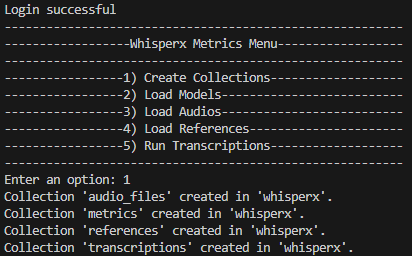
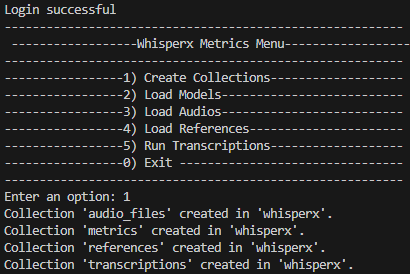
update menu options

Changed region(s): [[0.0, 0.0938, 1.0, 1.0], [0.0, 0.0, 0.2927, 0.0625]]

diff --git a/main.py b/main.py
@@ -56,37 +56,45 @@ def main(database_name):
      print("Error: no audio files loaded in database")
     
 if __name__ == "__main__":
-    print("---------------------------------------------------------\n"
-          "------------------Whisperx Metrics Menu------------------\n"
-          "---------------------------------------------------------\n"
-          "-----------------1) Create Collections-------------------\n"
-          "-----------------2) Load Models--------------------------\n"
-          "-----------------3) Load Audios--------------------------\n"
-          "-----------------4) Load References----------------------\n"
-          "-----------------5) Run Transcriptions-------------------\n"
-          "---------------------------------------------------------")
-    option =input("Enter an option: ")
-    if option in '12345':
-       option=int(option)
-       if option >=1 and option <=5:
-          if option == 1:
-            create_collections(database_name)
-          elif option == 2:
-            print("Downloading model from huggingface")
-            load_whisper_model(hf_token, model_name, whisper_model_dir)
-            print("Transforming whisper model into whisper faster format")
-            load_whisper_faster_model(whisper_model_dir, whisper_faster_model_dir)
-          elif option == 3:
-            print("Loading audio files batch from local directory")
-            load_mp3_batch(audio_dir)
-          elif option == 4: 
-            audio_id = input("Set the audio_id for the reference file: ")
-            load_reference_batch(audio_id, reference_dir)           
-          elif option == 5:
-            print("Checking ffmpeg")
-            check_ffmpeg()
-            print("Running transcriptions")
-            main(database_name)
-    else:
-      ("Error: insert a value between 1 and 5")
-    
+    while True:
+
+      print("---------------------------------------------------------\n",
+            "------------------Whisperx Metrics Menu------------------\n"
+            "---------------------------------------------------------\n"
+            "-----------------1) Create Collections-------------------\n"
+            "-----------------2) Load Models--------------------------\n"
+            "-----------------3) Load Audios--------------------------\n"
+            "-----------------4) Load References----------------------\n"
+            "-----------------5) Run Transcriptions-------------------\n"
+            "-----------------0) Exit---------------------------------\n"
+            "---------------------------------------------------------")
+      option =input("Enter an option: ")
+      
+      if option == '0':
+        print("Menu Ended")
+        break
+
+      if option in '12345':
+        option=int(option)
+        if option >=1 and option <=5:
+            if option == 1:
+              create_collections(database_name)
+            elif option == 2:
+              print("Downloading model from huggingface")
+              load_whisper_model(hf_token, model_name, whisper_model_dir)
+              print("Transforming whisper model into whisper faster format")
+              load_whisper_faster_model(whisper_model_dir, whisper_faster_model_dir)
+            elif option == 3:
+              print("Loading audio files batch from local directory")
+              load_mp3_batch(audio_dir)
+            elif option == 4: 
+              audio_id = input("Set the audio_id for the reference file: ")
+              load_reference_batch(audio_id, reference_dir)           
+            elif option == 5:
+              print("Checking ffmpeg")
+              check_ffmpeg()
+              print("Running transcriptions")
+              main(database_name)
+      else:
+        ("Error: insert a value between 1 and 5")
+      
